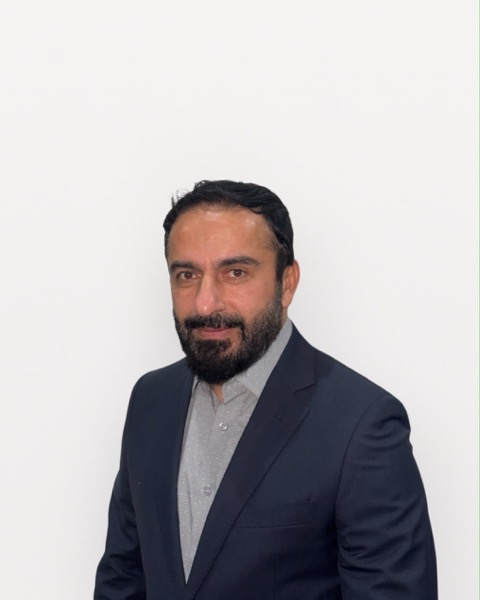
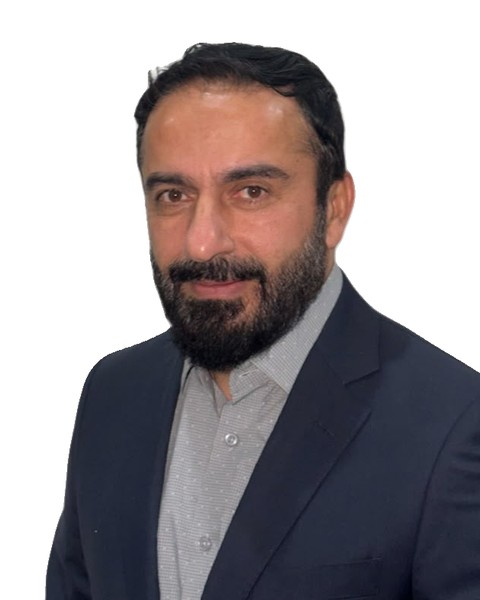
Team: white-background headshots for new starters

diff --git a/meet-the-team.html b/meet-the-team.html
@@ -13,7 +13,7 @@
 <link rel="icon" href="favicon.svg" type="image/svg+xml"><link rel="apple-touch-icon" href="img/icon-180.png">
 <link rel="preconnect" href="https://fonts.googleapis.com"><link rel="preconnect" href="https://fonts.gstatic.com" crossorigin>
 <link href="https://fonts.googleapis.com/css2?family=Bodoni+Moda:ital,opsz,wght@0,6..96,400;0,6..96,500;1,6..96,400&amp;family=Manrope:wght@300;400;500;600&amp;family=Amiri&amp;display=swap" rel="stylesheet">
-<link rel="stylesheet" href="style.css?v=2809">
+<link rel="stylesheet" href="style.css?v=2810">
 <script type="application/ld+json">{"@context":"https://schema.org","@type":"RealEstateAgent","name":"7ei8ht6 Properties LLC","telephone":"+971 4 443 9780","email":"info@7ei8ht6properties.com","url":"https://7ei8ht6properties.com/","address":{"@type":"PostalAddress","streetAddress":"Amaya Plaza, Office 14","addressLocality":"Nadd Al Hamar, Dubai","addressCountry":"AE"},"hasMap":"https://maps.google.com/?cid=16422721968951027580","aggregateRating":{"@type":"AggregateRating","ratingValue":"4.6","bestRating":"5"},"sameAs":["https://www.instagram.com/7ei8ht6properties/","https://www.facebook.com/p/7ei8ht6-Properties-LLC-100063644737141/","https://www.linkedin.com/company/13218590","https://www.bayut.com/companies/7ei8ht6-properties-8883/"]}</script>
 </head><body class="p-meet-the-team">
 <a class="skip" href="#main">Skip to content</a>
@@ -32,10 +32,10 @@
 <label class="search"><span class="sr">Search the team</span><input type="search" id="tsearch" placeholder="Search by name"></label></div>
 <div class="grid"><article class="member" data-role="Office Manager" data-name="asha nagarupillai"><div class="ph"><img src="img/t-asha.webp" alt="Portrait of Asha Nagarupillai" loading="lazy" decoding="async"></div>
 <div class="mi"><h3>Asha Nagarupillai</h3><p class="role">Office Manager</p><p class="mc"><a href="tel:+971552410447">+971 55 241 0447</a><a href="mailto:asha@7ei8ht6properties.com">Email</a><a href="https://wa.me/971552410447" target="_blank" rel="noopener" aria-label="WhatsApp Asha Nagarupillai">WhatsApp</a></p></div></article><article class="member" data-role="Executive Assistant" data-name="aiswarya rajeev"><div class="ph"><img src="img/t-aiswarya.webp" alt="Portrait of Aiswarya Rajeev" loading="lazy" decoding="async"></div>
-<div class="mi"><h3>Aiswarya Rajeev</h3><p class="role">Executive Assistant</p><p class="mc"><a href="tel:+971588008311">+971 58 800 8311</a><a href="mailto:aiswarya@7ei8ht6properties.com">Email</a><a href="https://wa.me/971588008311" target="_blank" rel="noopener" aria-label="WhatsApp Aiswarya Rajeev">WhatsApp</a></p></div></article><article class="member" data-role="Administrative Assistant" data-name="avishna ganesh"><div class="ph"><img src="img/t-avishna.webp" alt="Portrait of Avishna Ganesh" loading="lazy" decoding="async"></div>
-<div class="mi"><h3>Avishna Ganesh</h3><p class="role">Administrative Assistant</p><p class="mc"><a href="tel:+971508625664">+971 50 862 5664</a><a href="mailto:avishna@7ei8ht6properties.com">Email</a><a href="https://wa.me/971508625664" target="_blank" rel="noopener" aria-label="WhatsApp Avishna Ganesh">WhatsApp</a></p></div></article><article class="member" data-role="Associate Director" data-name="iqbal ahmed abdullah"><div class="ph"><img src="img/t-iqbal.webp" alt="Portrait of Iqbal Ahmed Abdullah" loading="lazy" decoding="async"></div>
-<div class="mi"><h3>Iqbal Ahmed Abdullah</h3><p class="role">Associate Director</p><p class="mc"><a href="tel:+971506770131">+971 50 677 0131</a><a href="mailto:info@7ei8ht6properties.com">Email</a><a href="https://wa.me/971506770131" target="_blank" rel="noopener" aria-label="WhatsApp Iqbal Ahmed Abdullah">WhatsApp</a></p></div></article><article class="member" data-role="Associate Director" data-name="muhammad ali abdul sattar"><div class="ph"><img src="img/t-alisattar.webp" alt="Portrait of Muhammad Ali Abdul Sattar" loading="lazy" decoding="async"></div>
-<div class="mi"><h3>Muhammad Ali Abdul Sattar</h3><p class="role">Associate Director</p><p class="mc"><a href="tel:+971554243200">+971 55 424 3200</a><a href="mailto:info@7ei8ht6properties.com">Email</a><a href="https://wa.me/971554243200" target="_blank" rel="noopener" aria-label="WhatsApp Muhammad Ali Abdul Sattar">WhatsApp</a></p></div></article><article class="member" data-role="Property Consultant" data-name="divya prakash"><div class="ph"><img src="img/t-divya.webp" alt="Portrait of Divya Prakash" loading="lazy" decoding="async"></div>
+<div class="mi"><h3>Aiswarya Rajeev</h3><p class="role">Executive Assistant</p><p class="mc"><a href="tel:+971588008311">+971 58 800 8311</a><a href="mailto:aiswarya@7ei8ht6properties.com">Email</a><a href="https://wa.me/971588008311" target="_blank" rel="noopener" aria-label="WhatsApp Aiswarya Rajeev">WhatsApp</a></p></div></article><article class="member" data-role="Administrative Assistant" data-name="avishna ganesh"><div class="ph"><img src="img/t-avishna.webp?v=2" alt="Portrait of Avishna Ganesh" loading="lazy" decoding="async"></div>
+<div class="mi"><h3>Avishna Ganesh</h3><p class="role">Administrative Assistant</p><p class="mc"><a href="tel:+971508625664">+971 50 862 5664</a><a href="mailto:avishna@7ei8ht6properties.com">Email</a><a href="https://wa.me/971508625664" target="_blank" rel="noopener" aria-label="WhatsApp Avishna Ganesh">WhatsApp</a></p></div></article><article class="member" data-role="Associate Director" data-name="iqbal ahmed abdullah"><div class="ph"><img src="img/t-iqbal.webp?v=2" alt="Portrait of Iqbal Ahmed Abdullah" loading="lazy" decoding="async"></div>
+<div class="mi"><h3>Iqbal Ahmed Abdullah</h3><p class="role">Associate Director</p><p class="mc"><a href="tel:+971506770131">+971 50 677 0131</a><a href="mailto:info@7ei8ht6properties.com">Email</a><a href="https://wa.me/971506770131" target="_blank" rel="noopener" aria-label="WhatsApp Iqbal Ahmed Abdullah">WhatsApp</a></p></div></article><article class="member" data-role="Associate Director" data-name="muhammad ali abdul sattar"><div class="ph"><img src="img/t-alisattar.webp?v=2" alt="Portrait of Muhammad Ali Abdul Sattar" loading="lazy" decoding="async"></div>
+<div class="mi"><h3>Muhammad Ali Abdul Sattar</h3><p class="role">Associate Director</p><p class="mc"><a href="tel:+971554243200">+971 55 424 3200</a><a href="mailto:info@7ei8ht6properties.com">Email</a><a href="https://wa.me/971554243200" target="_blank" rel="noopener" aria-label="WhatsApp Muhammad Ali Abdul Sattar">WhatsApp</a></p></div></article><article class="member" data-role="Property Consultant" data-name="divya prakash"><div class="ph"><img src="img/t-divya.webp?v=2" alt="Portrait of Divya Prakash" loading="lazy" decoding="async"></div>
 <div class="mi"><h3>Divya Prakash</h3><p class="role">Property Consultant</p><p class="rera">RERA No. 100215</p><p class="mc"><a href="tel:+971501475717">+971 50 147 5717</a><a href="mailto:divya@7ei8ht6properties.com">Email</a><a href="https://wa.me/971501475717" target="_blank" rel="noopener" aria-label="WhatsApp Divya Prakash">WhatsApp</a></p></div></article><article class="member" data-role="Property Consultant" data-name="khalid awadh"><div class="ph"><img src="img/t-khalid.webp" alt="Portrait of Khalid Awadh" loading="lazy" decoding="async"></div>
 <div class="mi"><h3>Khalid Awadh</h3><p class="role">Property Consultant</p><p class="rera">RERA No. 30126</p><p class="mc"><a href="tel:+971556207707">+971 55 620 7707</a><a href="mailto:khalid@7ei8ht6properties.com">Email</a><a href="https://wa.me/971556207707" target="_blank" rel="noopener" aria-label="WhatsApp Khalid Awadh">WhatsApp</a></p></div></article><article class="member" data-role="Property Consultant" data-name="yousaf nouman"><div class="ph"><img src="img/t-yousaf.webp" alt="Portrait of Yousaf Nouman" loading="lazy" decoding="async"></div>
 <div class="mi"><h3>Yousaf Nouman</h3><p class="role">Property Consultant</p><p class="rera">RERA No. 42532</p><p class="mc"><a href="tel:+971559168978">+971 55 916 8978</a><a href="mailto:yousaf@7ei8ht6properties.com">Email</a><a href="https://wa.me/971559168978" target="_blank" rel="noopener" aria-label="WhatsApp Yousaf Nouman">WhatsApp</a></p></div></article><article class="member" data-role="Property Consultant" data-name="mohamed rimnaz"><div class="ph"><img src="img/t-rimnaz.webp" alt="Portrait of Mohamed Rimnaz" loading="lazy" decoding="async"></div>

diff --git a/index.html b/index.html
@@ -13,7 +13,7 @@
 <link rel="icon" href="favicon.svg" type="image/svg+xml"><link rel="apple-touch-icon" href="img/icon-180.png">
 <link rel="preconnect" href="https://fonts.googleapis.com"><link rel="preconnect" href="https://fonts.gstatic.com" crossorigin>
 <link href="https://fonts.googleapis.com/css2?family=Bodoni+Moda:ital,opsz,wght@0,6..96,400;0,6..96,500;1,6..96,400&amp;family=Manrope:wght@300;400;500;600&amp;family=Amiri&amp;display=swap" rel="stylesheet">
-<link rel="stylesheet" href="style.css?v=2809">
+<link rel="stylesheet" href="style.css?v=2810">
 <script type="application/ld+json">{"@context":"https://schema.org","@type":"RealEstateAgent","name":"7ei8ht6 Properties LLC","telephone":"+971 4 443 9780","email":"info@7ei8ht6properties.com","url":"https://7ei8ht6properties.com/","address":{"@type":"PostalAddress","streetAddress":"Amaya Plaza, Office 14","addressLocality":"Nadd Al Hamar, Dubai","addressCountry":"AE"},"hasMap":"https://maps.google.com/?cid=16422721968951027580","aggregateRating":{"@type":"AggregateRating","ratingValue":"4.6","bestRating":"5"},"sameAs":["https://www.instagram.com/7ei8ht6properties/","https://www.facebook.com/p/7ei8ht6-Properties-LLC-100063644737141/","https://www.linkedin.com/company/13218590","https://www.bayut.com/companies/7ei8ht6-properties-8883/"]}</script>
 </head><body class="p-index">
 <a class="skip" href="#main">Skip to content</a>
@@ -60,7 +60,7 @@
 <section class="team-band"><div class="wrap tb">
 <div class="tb-copy"><p class="kicker rv"><span>The people</span></p><h2 class="bi d2 rv"><span class="en">37 people.<br>One advisor for you.</span><span class="ar" lang="ar" dir="rtl">فريق من 37 شخصًا<br>ومستشار واحد لك</span></h2>
 <p class="body rv">Led by our founder, Fayyaz (Abu Mustafa) Sayani, and director Zahir Alimahomed. Every client is given one named advisor, reachable directly by phone, email and WhatsApp.</p><a class="tl rv" href="meet-the-team.html">Meet the team</a></div>
-<div class="tb-faces" aria-hidden="true"><img src="img/t-fayyaz.webp" alt="" loading="lazy" decoding="async"><img src="img/t-zahir.webp" alt="" loading="lazy" decoding="async"><img src="img/t-asha.webp" alt="" loading="lazy" decoding="async"><img src="img/t-aiswarya.webp" alt="" loading="lazy" decoding="async"><img src="img/t-avishna.webp" alt="" loading="lazy" decoding="async"><img src="img/t-iqbal.webp" alt="" loading="lazy" decoding="async"><img src="img/t-alisattar.webp" alt="" loading="lazy" decoding="async"><img src="img/t-divya.webp" alt="" loading="lazy" decoding="async"><img src="img/t-khalid.webp" alt="" loading="lazy" decoding="async"></div></div></section>
+<div class="tb-faces" aria-hidden="true"><img src="img/t-fayyaz.webp" alt="" loading="lazy" decoding="async"><img src="img/t-zahir.webp" alt="" loading="lazy" decoding="async"><img src="img/t-asha.webp" alt="" loading="lazy" decoding="async"><img src="img/t-aiswarya.webp" alt="" loading="lazy" decoding="async"><img src="img/t-avishna.webp?v=2" alt="" loading="lazy" decoding="async"><img src="img/t-iqbal.webp?v=2" alt="" loading="lazy" decoding="async"><img src="img/t-alisattar.webp?v=2" alt="" loading="lazy" decoding="async"><img src="img/t-divya.webp?v=2" alt="" loading="lazy" decoding="async"><img src="img/t-khalid.webp" alt="" loading="lazy" decoding="async"></div></div></section>
 
 <section class="viewing"><div class="v-bg" data-speed="0.18"><picture class=""><source media="(max-width:760px)" srcset="img/x-lake-m.webp"><img src="img/x-lake.webp" alt="A lone abra on the lake beneath the Dubai Fountain at night" loading=lazy decoding="async"></picture></div><div class="v-shade"></div>
 <div class="v-in wrap"><p class="kicker"><span>Concierge</span></p><h2 class="bi d1"><span class="en">Book a private viewing.</span><span class="ar" lang="ar" dir="rtl">احجز معاينة خاصة</span></h2>

diff --git a/invest-in-dubai.html b/invest-in-dubai.html
@@ -13,7 +13,7 @@
 <link rel="icon" href="favicon.svg" type="image/svg+xml"><link rel="apple-touch-icon" href="img/icon-180.png">
 <link rel="preconnect" href="https://fonts.googleapis.com"><link rel="preconnect" href="https://fonts.gstatic.com" crossorigin>
 <link href="https://fonts.googleapis.com/css2?family=Bodoni+Moda:ital,opsz,wght@0,6..96,400;0,6..96,500;1,6..96,400&amp;family=Manrope:wght@300;400;500;600&amp;family=Amiri&amp;display=swap" rel="stylesheet">
-<link rel="stylesheet" href="style.css?v=2809">
+<link rel="stylesheet" href="style.css?v=2810">
 <script type="application/ld+json">{"@context":"https://schema.org","@type":"RealEstateAgent","name":"7ei8ht6 Properties LLC","telephone":"+971 4 443 9780","email":"info@7ei8ht6properties.com","url":"https://7ei8ht6properties.com/","address":{"@type":"PostalAddress","streetAddress":"Amaya Plaza, Office 14","addressLocality":"Nadd Al Hamar, Dubai","addressCountry":"AE"},"hasMap":"https://maps.google.com/?cid=16422721968951027580","aggregateRating":{"@type":"AggregateRating","ratingValue":"4.6","bestRating":"5"},"sameAs":["https://www.instagram.com/7ei8ht6properties/","https://www.facebook.com/p/7ei8ht6-Properties-LLC-100063644737141/","https://www.linkedin.com/company/13218590","https://www.bayut.com/companies/7ei8ht6-properties-8883/"]}</script>
 </head><body class="p-invest-in-dubai">
 <a class="skip" href="#main">Skip to content</a>

diff --git a/services.html b/services.html
@@ -13,7 +13,7 @@
 <link rel="icon" href="favicon.svg" type="image/svg+xml"><link rel="apple-touch-icon" href="img/icon-180.png">
 <link rel="preconnect" href="https://fonts.googleapis.com"><link rel="preconnect" href="https://fonts.gstatic.com" crossorigin>
 <link href="https://fonts.googleapis.com/css2?family=Bodoni+Moda:ital,opsz,wght@0,6..96,400;0,6..96,500;1,6..96,400&amp;family=Manrope:wght@300;400;500;600&amp;family=Amiri&amp;display=swap" rel="stylesheet">
-<link rel="stylesheet" href="style.css?v=2809">
+<link rel="stylesheet" href="style.css?v=2810">
 <script type="application/ld+json">{"@context":"https://schema.org","@type":"RealEstateAgent","name":"7ei8ht6 Properties LLC","telephone":"+971 4 443 9780","email":"info@7ei8ht6properties.com","url":"https://7ei8ht6properties.com/","address":{"@type":"PostalAddress","streetAddress":"Amaya Plaza, Office 14","addressLocality":"Nadd Al Hamar, Dubai","addressCountry":"AE"},"hasMap":"https://maps.google.com/?cid=16422721968951027580","aggregateRating":{"@type":"AggregateRating","ratingValue":"4.6","bestRating":"5"},"sameAs":["https://www.instagram.com/7ei8ht6properties/","https://www.facebook.com/p/7ei8ht6-Properties-LLC-100063644737141/","https://www.linkedin.com/company/13218590","https://www.bayut.com/companies/7ei8ht6-properties-8883/"]}</script>
 </head><body class="p-services">
 <a class="skip" href="#main">Skip to content</a>

diff --git a/careers.html b/careers.html
@@ -13,7 +13,7 @@
 <link rel="icon" href="favicon.svg" type="image/svg+xml"><link rel="apple-touch-icon" href="img/icon-180.png">
 <link rel="preconnect" href="https://fonts.googleapis.com"><link rel="preconnect" href="https://fonts.gstatic.com" crossorigin>
 <link href="https://fonts.googleapis.com/css2?family=Bodoni+Moda:ital,opsz,wght@0,6..96,400;0,6..96,500;1,6..96,400&amp;family=Manrope:wght@300;400;500;600&amp;family=Amiri&amp;display=swap" rel="stylesheet">
-<link rel="stylesheet" href="style.css?v=2809">
+<link rel="stylesheet" href="style.css?v=2810">
 <script type="application/ld+json">{"@context":"https://schema.org","@type":"RealEstateAgent","name":"7ei8ht6 Properties LLC","telephone":"+971 4 443 9780","email":"info@7ei8ht6properties.com","url":"https://7ei8ht6properties.com/","address":{"@type":"PostalAddress","streetAddress":"Amaya Plaza, Office 14","addressLocality":"Nadd Al Hamar, Dubai","addressCountry":"AE"},"hasMap":"https://maps.google.com/?cid=16422721968951027580","aggregateRating":{"@type":"AggregateRating","ratingValue":"4.6","bestRating":"5"},"sameAs":["https://www.instagram.com/7ei8ht6properties/","https://www.facebook.com/p/7ei8ht6-Properties-LLC-100063644737141/","https://www.linkedin.com/company/13218590","https://www.bayut.com/companies/7ei8ht6-properties-8883/"]}</script>
 </head><body class="p-careers">
 <a class="skip" href="#main">Skip to content</a>

diff --git a/contact.html b/contact.html
@@ -13,7 +13,7 @@
 <link rel="icon" href="favicon.svg" type="image/svg+xml"><link rel="apple-touch-icon" href="img/icon-180.png">
 <link rel="preconnect" href="https://fonts.googleapis.com"><link rel="preconnect" href="https://fonts.gstatic.com" crossorigin>
 <link href="https://fonts.googleapis.com/css2?family=Bodoni+Moda:ital,opsz,wght@0,6..96,400;0,6..96,500;1,6..96,400&amp;family=Manrope:wght@300;400;500;600&amp;family=Amiri&amp;display=swap" rel="stylesheet">
-<link rel="stylesheet" href="style.css?v=2809">
+<link rel="stylesheet" href="style.css?v=2810">
 <script type="application/ld+json">{"@context":"https://schema.org","@type":"RealEstateAgent","name":"7ei8ht6 Properties LLC","telephone":"+971 4 443 9780","email":"info@7ei8ht6properties.com","url":"https://7ei8ht6properties.com/","address":{"@type":"PostalAddress","streetAddress":"Amaya Plaza, Office 14","addressLocality":"Nadd Al Hamar, Dubai","addressCountry":"AE"},"hasMap":"https://maps.google.com/?cid=16422721968951027580","aggregateRating":{"@type":"AggregateRating","ratingValue":"4.6","bestRating":"5"},"sameAs":["https://www.instagram.com/7ei8ht6properties/","https://www.facebook.com/p/7ei8ht6-Properties-LLC-100063644737141/","https://www.linkedin.com/company/13218590","https://www.bayut.com/companies/7ei8ht6-properties-8883/"]}</script>
 </head><body class="p-contact">
 <a class="skip" href="#main">Skip to content</a>

diff --git a/areas.html b/areas.html
@@ -13,7 +13,7 @@
 <link rel="icon" href="favicon.svg" type="image/svg+xml"><link rel="apple-touch-icon" href="img/icon-180.png">
 <link rel="preconnect" href="https://fonts.googleapis.com"><link rel="preconnect" href="https://fonts.gstatic.com" crossorigin>
 <link href="https://fonts.googleapis.com/css2?family=Bodoni+Moda:ital,opsz,wght@0,6..96,400;0,6..96,500;1,6..96,400&amp;family=Manrope:wght@300;400;500;600&amp;family=Amiri&amp;display=swap" rel="stylesheet">
-<link rel="stylesheet" href="style.css?v=2809">
+<link rel="stylesheet" href="style.css?v=2810">
 <script type="application/ld+json">{"@context":"https://schema.org","@type":"RealEstateAgent","name":"7ei8ht6 Properties LLC","telephone":"+971 4 443 9780","email":"info@7ei8ht6properties.com","url":"https://7ei8ht6properties.com/","address":{"@type":"PostalAddress","streetAddress":"Amaya Plaza, Office 14","addressLocality":"Nadd Al Hamar, Dubai","addressCountry":"AE"},"hasMap":"https://maps.google.com/?cid=16422721968951027580","aggregateRating":{"@type":"AggregateRating","ratingValue":"4.6","bestRating":"5"},"sameAs":["https://www.instagram.com/7ei8ht6properties/","https://www.facebook.com/p/7ei8ht6-Properties-LLC-100063644737141/","https://www.linkedin.com/company/13218590","https://www.bayut.com/companies/7ei8ht6-properties-8883/"]}</script>
 </head><body class="p-areas">
 <a class="skip" href="#main">Skip to content</a>

diff --git a/404.html b/404.html
@@ -13,7 +13,7 @@
 <link rel="icon" href="favicon.svg" type="image/svg+xml"><link rel="apple-touch-icon" href="img/icon-180.png">
 <link rel="preconnect" href="https://fonts.googleapis.com"><link rel="preconnect" href="https://fonts.gstatic.com" crossorigin>
 <link href="https://fonts.googleapis.com/css2?family=Bodoni+Moda:ital,opsz,wght@0,6..96,400;0,6..96,500;1,6..96,400&amp;family=Manrope:wght@300;400;500;600&amp;family=Amiri&amp;display=swap" rel="stylesheet">
-<link rel="stylesheet" href="style.css?v=2809">
+<link rel="stylesheet" href="style.css?v=2810">
 <script type="application/ld+json">{"@context":"https://schema.org","@type":"RealEstateAgent","name":"7ei8ht6 Properties LLC","telephone":"+971 4 443 9780","email":"info@7ei8ht6properties.com","url":"https://7ei8ht6properties.com/","address":{"@type":"PostalAddress","streetAddress":"Amaya Plaza, Office 14","addressLocality":"Nadd Al Hamar, Dubai","addressCountry":"AE"},"hasMap":"https://maps.google.com/?cid=16422721968951027580","aggregateRating":{"@type":"AggregateRating","ratingValue":"4.6","bestRating":"5"},"sameAs":["https://www.instagram.com/7ei8ht6properties/","https://www.facebook.com/p/7ei8ht6-Properties-LLC-100063644737141/","https://www.linkedin.com/company/13218590","https://www.bayut.com/companies/7ei8ht6-properties-8883/"]}</script>
 </head><body class="p-404">
 <a class="skip" href="#main">Skip to content</a>
